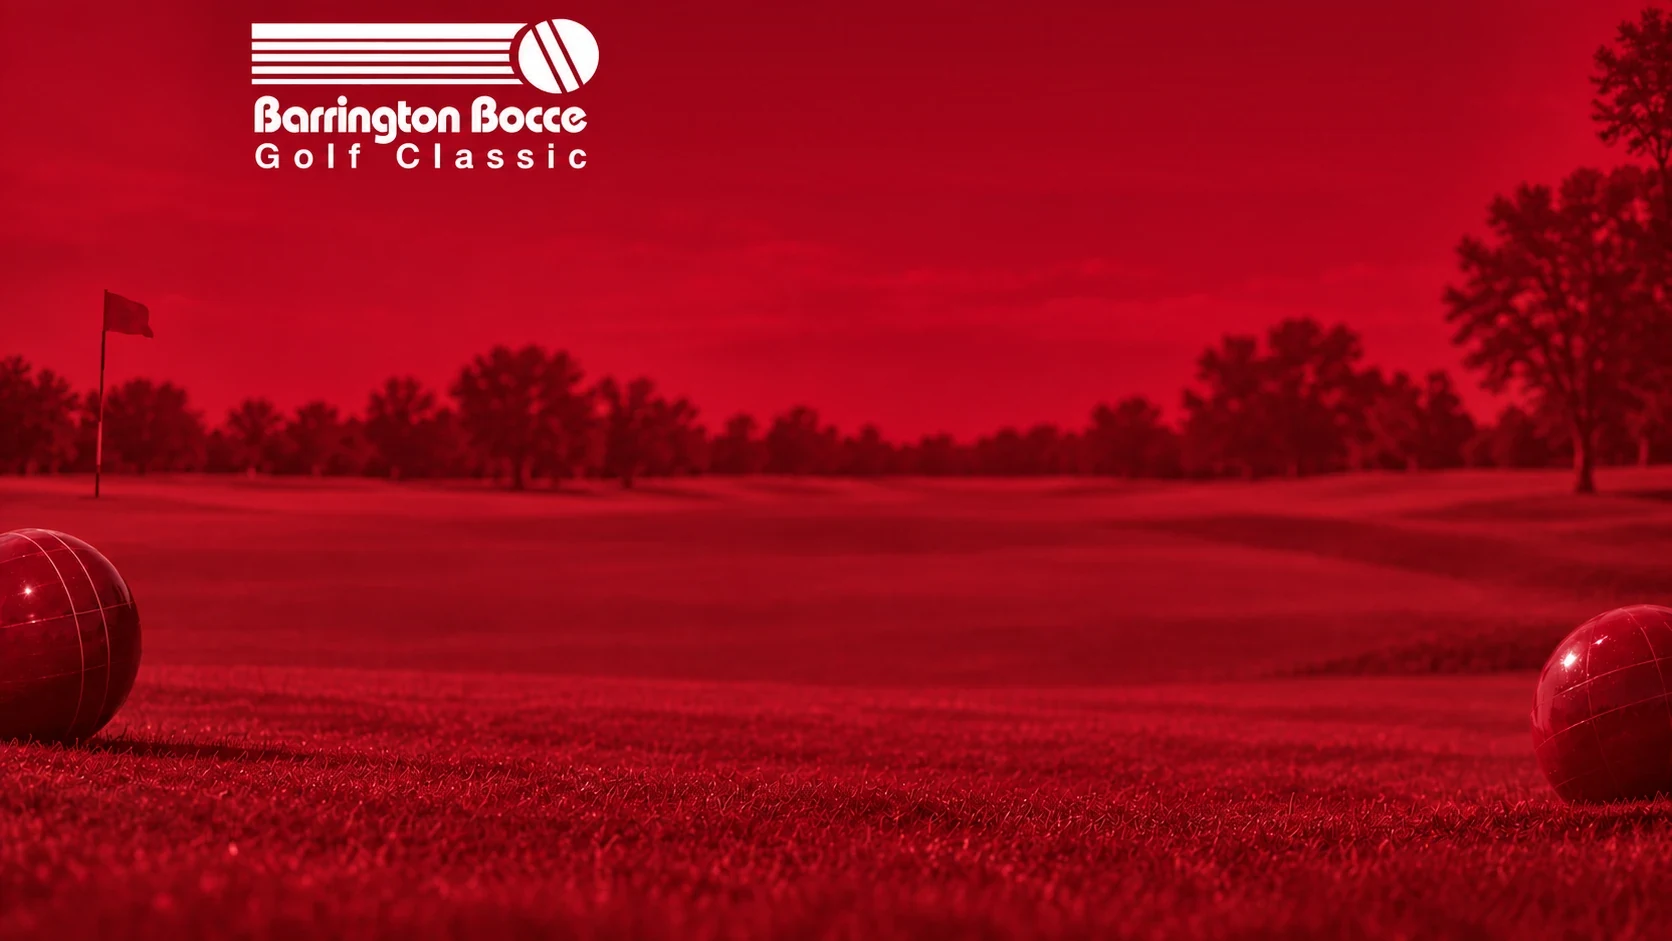
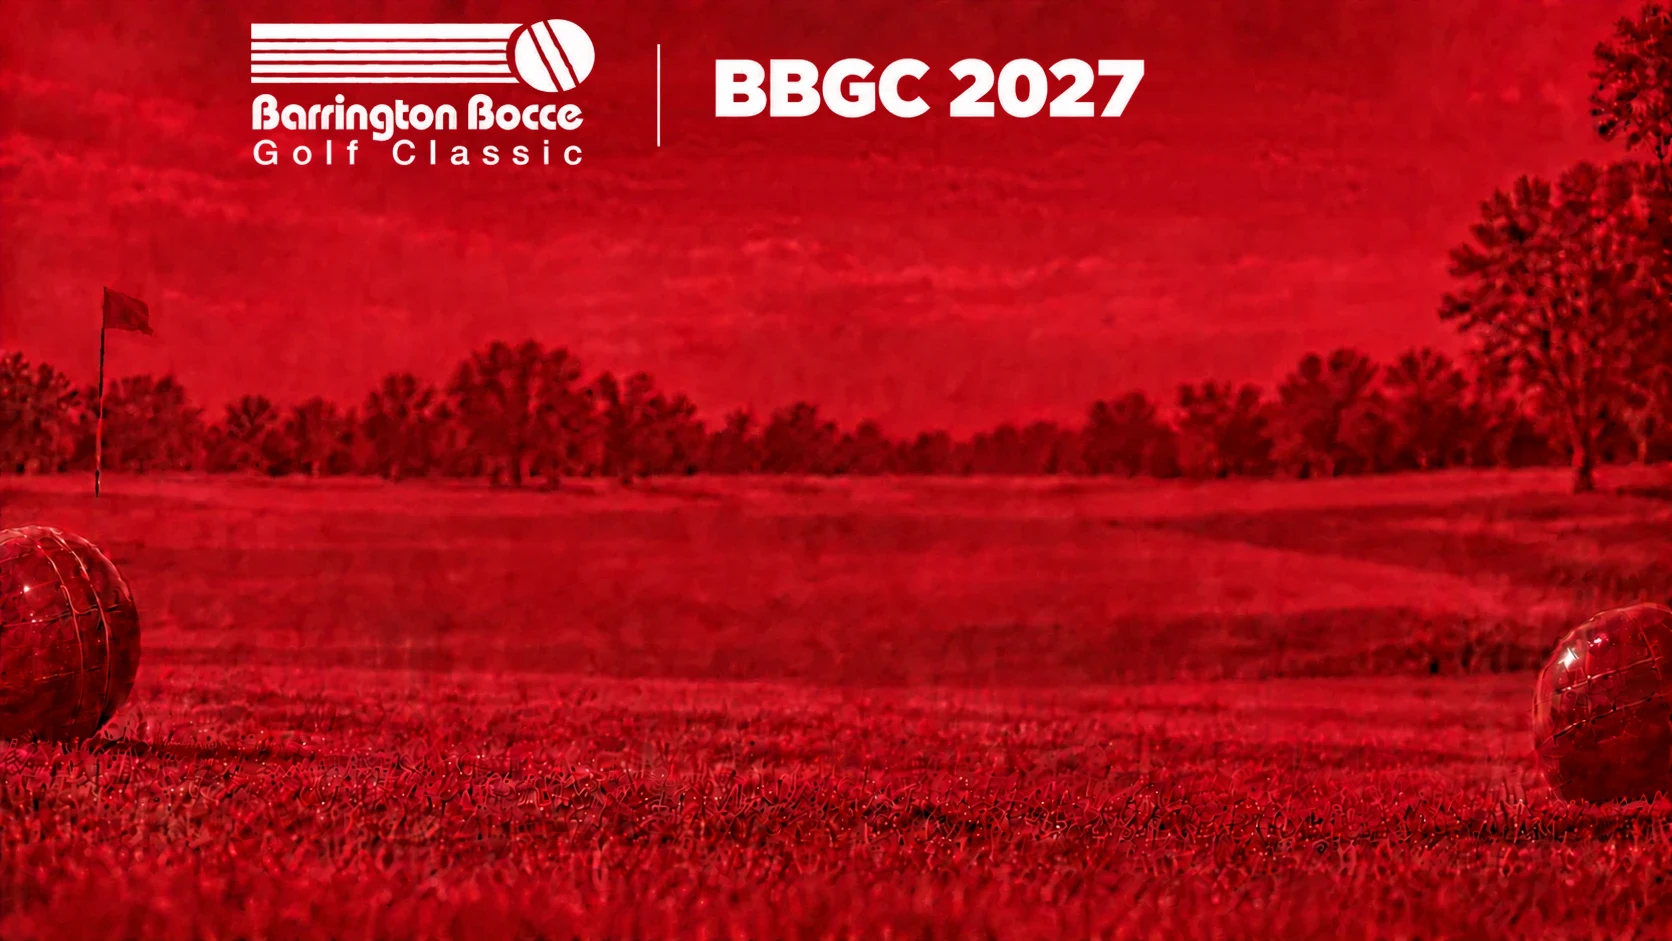
Use Pete's 2027 artwork for the placeholder page
The portrait was already in the house position. The landscape had the whole
header block 219px right and 50px down of where every other tab puts it —
the same offset the poem art arrived with — which would have printed the
logo across the menu row, so it is moved back to 252,20 and the sky repaired.

The mobile wrapper now carries tab-preview rather than whichever tab happened
to be selected, so the page can take the taller menu clearance its header
needs, and the stage card drops clear of the menu row.

diff --git a/site/src/index.css b/site/src/index.css
@@ -524,7 +524,7 @@ button { font: inherit; cursor: pointer; }
    inside the box rather than stretching across it */
 .tv .hype-frame { height: 100%; width: auto; }
 
-.tv .preview { position: absolute; top: 250px; left: 70px; right: 70px; bottom: 95px;
+.tv .preview { position: absolute; top: 272px; left: 70px; right: 70px; bottom: 95px;
   display: flex; align-items: center; justify-content: center; }
 .tv .preview-card { padding: 54px 76px; max-width: 1000px; }
 .tv .preview-card h1 { font-size: 64px; }
@@ -561,6 +561,7 @@ button { font: inherit; cursor: pointer; }
 .mobile.tab-coursemap .menu,
 .mobile.tab-hype .menu,
 .mobile.tab-poem .menu,
+.mobile.tab-preview .menu,
 .mobile.tab-live .menu { padding-top: calc(max(100vw / 941, 100vh / 1672) * 240 + 8px); }
 .mobile .menu button { font-size: 13px; padding: 8px 14px; }
 .mobile .menu select.year { font-size: 13px; padding: 8px 34px 8px 14px; background-position: right 12px center; }

diff --git a/site/src/App.jsx b/site/src/App.jsx
@@ -148,7 +148,7 @@ export default function App() {
     )
   }
   return (
-    <div className={`mobile tab-${tab}`}>
+    <div className={`mobile tab-${isPreview ? 'preview' : tab}`}>
       <div className="mobile-bg" style={{ backgroundImage: `url(${bg})` }} />
       {content}
     </div>
